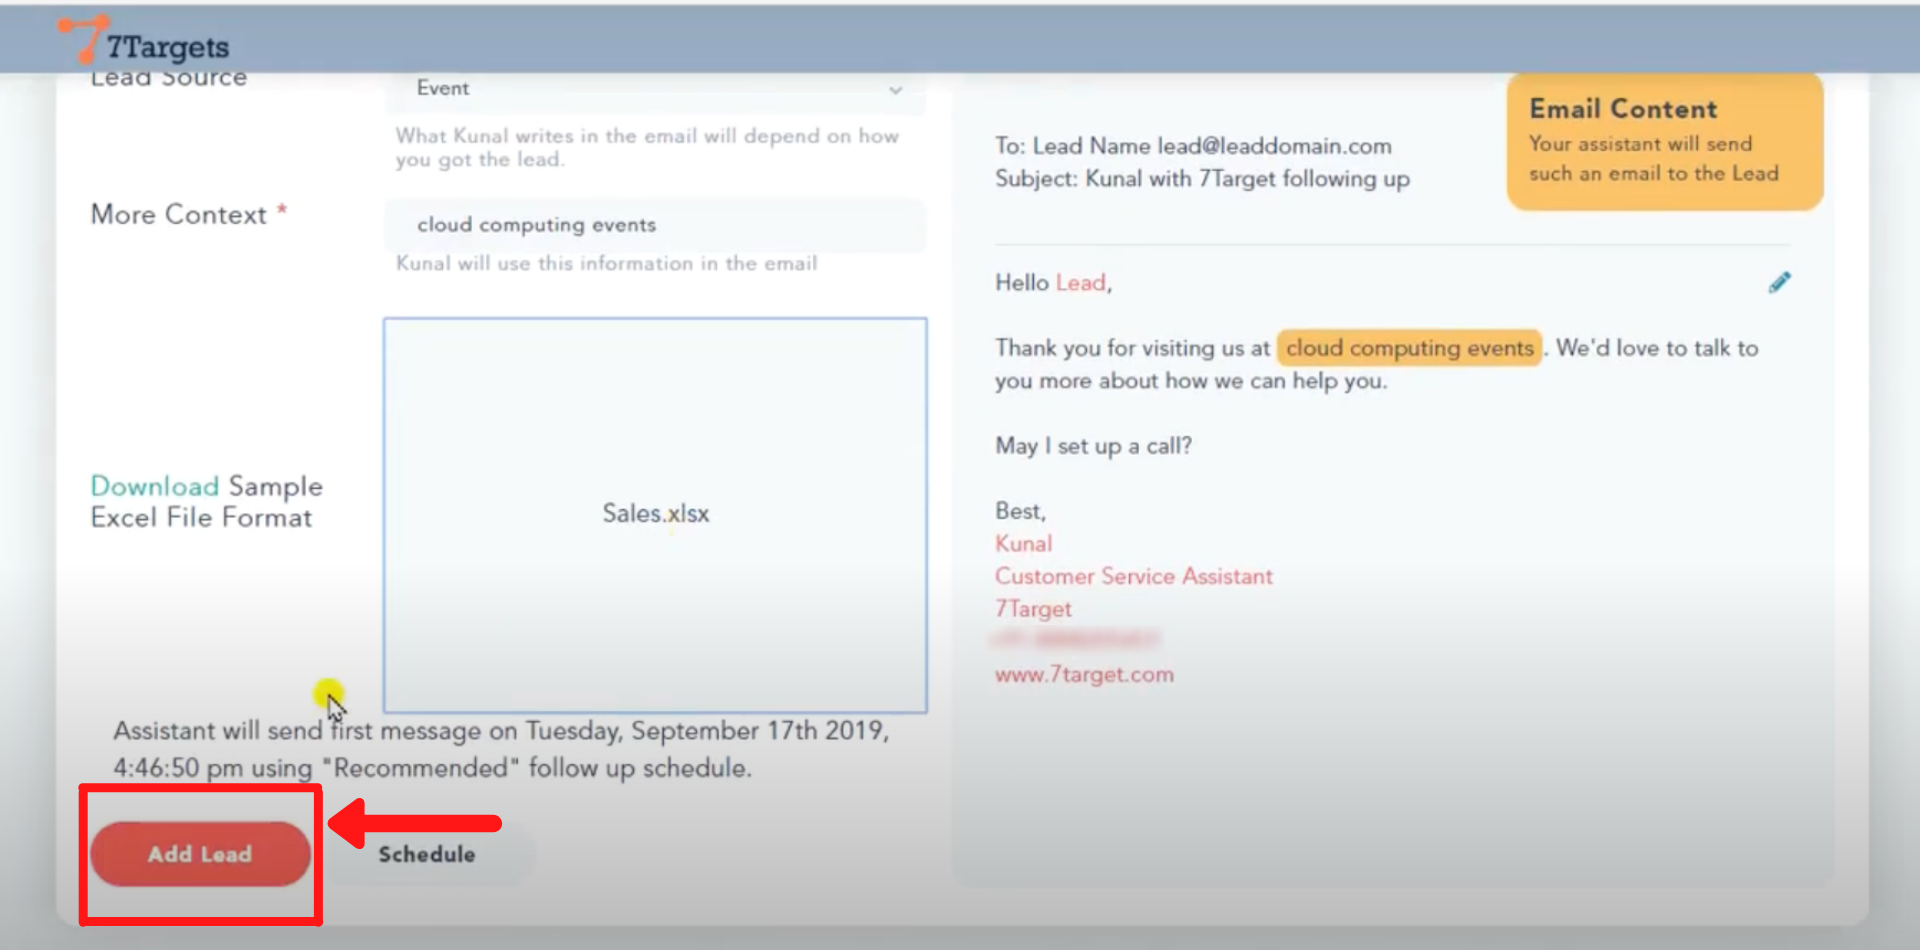
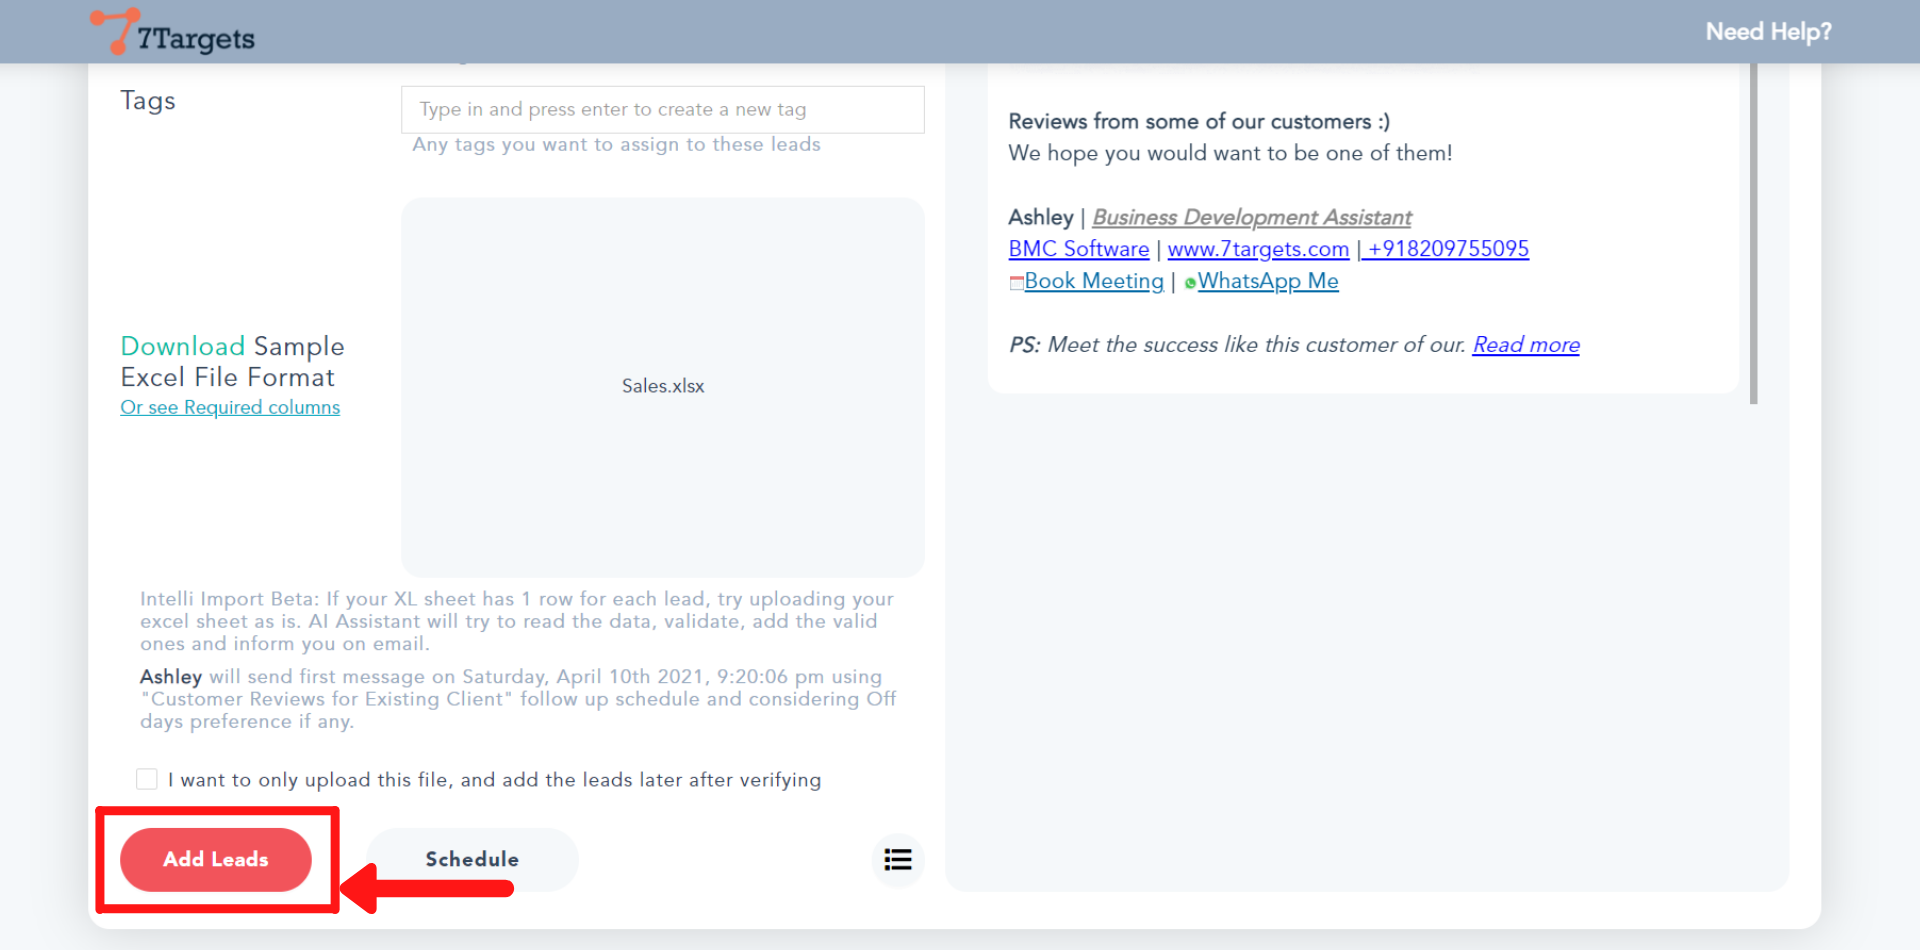
Updated 'how to add multiple leads'

diff --git a/_posts/2021-04-08-how-to-add-multiple-leads.md b/_posts/2021-04-08-how-to-add-multiple-leads.md
@@ -25,6 +25,12 @@ Here is a small video explaining the steps.
 
 Sign in to your account. Click on the 'Leads' option besides 'Dashboard' on top. Now follow these simple steps shown below:
 
+## Prerequisite
+
+Before uploading the leads, you should have an excel sheet ready in a proper format. The name, email id, company, designation, etc should be formatted so that you can upload multiple leads. 
+
+If you haven't yet prepared the sheet, do follow the steps under [how to prepare an excel sheet to upload multiple leads](https://help.7targets.ai/how-to-prepare-excel-sheet-to-upload-information-of-multiple-leads/).
+
 ## Step 1
 
 Click on 'Add lead' button.
@@ -66,15 +72,41 @@ Else as shown below, click on 'Select Excel File'. Select the excel sheet you wa
 
 ## Step 6
 
-Click on 'Add lead' button at the left bottom corner. 
+Now, you can either add the leads or just upload them and add the leads later after verifying.
+
+**a.** To add the leads, click on the 'Add lead' button at the left bottom corner. 
 
 ![image](../images/Step-6.png)
 
+**b.** To upload the leads and add them after verifying, select the check box as shown. Then click the 'Upload' button.
 
-You can now see all the leads are uploaded.
+![image](../images/step-7.png)
 
-![image](../images/Step-7.png)
+## Step 7
 
-Further, you can also assign your own schedule to these leads. Follow the steps under [how to make your own schedule](https://help.7targets.ai/how-to-schedule-followups/).
+You can assign schedule to these leads. Click on the 'Schedule' button. Select the desired 'Schedule' by clicking on the drop-down arrow. Then set the 'Start At' date and time.
+
+![image](../images/step-8.png)
+
+Further, you can even create your own schedule to assign to these leads. Follow the steps under [how to make your own schedule](https://help.7targets.ai/how-to-schedule-followups/).
+
+## Step 8
+
+To check the upload history of leads, click on the button as shown below.
+
+![image](../images/step-9.png)
+
+You'll be directed to this page.
+
+Here, for a certain file, if you want to download the total number of leads. Click on its corresponding 'Total Leads'.
+
+Similarly, to know the reason why certain leads aren't added, download by clicking the corresponding 'Not Added'. The same is for the added lead, click on the correponding 'Added'.
+
+Other details in this table are assigned assistant to the leads, date, status, and actions to be taken.
+
+![image](../images/step-10.png)
+
+
+
 
 If you have any further doubts you can directly mail us at info@7targets.com.
